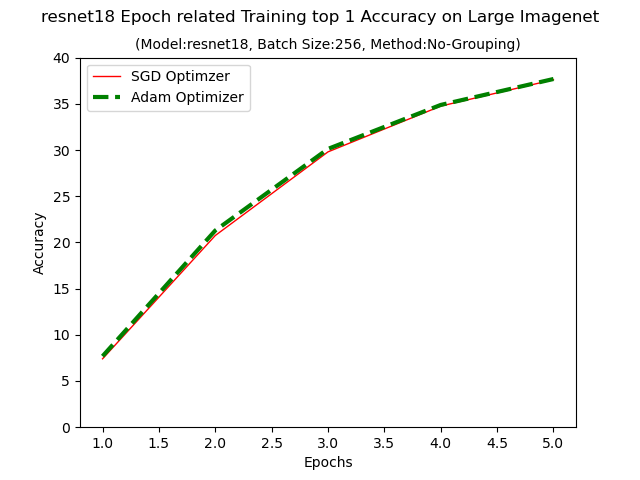
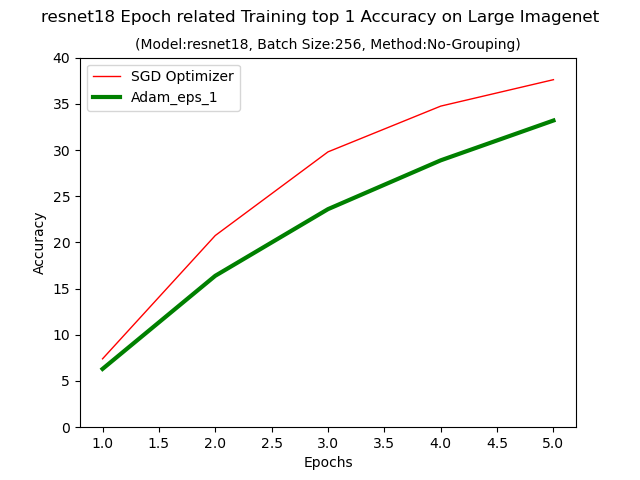
tuning parameter adam optimizer

diff --git a/train-large-imagenet/adam-opt-experiment/read_and_plot_grouped_eps.py b/train-large-imagenet/adam-opt-experiment/read_and_plot_grouped_eps.py
@@ -1,0 +1,137 @@
+import json
+import matplotlib.pyplot as plt
+import numpy as np
+
+train_top1, train_top5, val_top1, val_top5 = [],[],[],[]
+train_top1_size2 = []
+train_top1_size4 = []
+train_top1_size8 = []
+train_top1_size16 = []
+train_top1_size32 = []
+train_top1_size64 = []
+epochs = 0
+batch_size = 0
+model = ""
+batch_top1_top5 = {}
+batch_top1_top5_size2 = {}
+batch_top1_top5_size4 = {}
+batch_top1_top5_size8 = {}
+batch_top1_top5_size16 = {}
+batch_top1_top5_size32 = {}
+batch_top1_top5_size64 = {}
+
+
+short_batch = '256'
+current_p = 'train_top1'
+current_title = 'resnet18 Epoch related Training top 1 Accuracy on Large Imagenet'
+process = '_trainingtop1_'
+
+with open('resnet18_batch_256_epo_5_eps_1') as json_file:
+    data = json.load(json_file)
+    for k,v in data.items():
+        if k == current_p:
+            batch_top1_top5 = data[k]
+            print(type(batch_top1_top5))
+            print(len(batch_top1_top5))
+        elif k == 'model':
+            model = data[k]           
+        elif k == 'args.epochs':
+            epochs = data[k]	
+        elif k == 'args.batch_size':
+            batch_size = data[k]
+with open('resnet18_batch_256_epo_50_sgd') as json_file:
+    data = json.load(json_file)
+    for k,v in data.items():
+        if k == current_p:
+            batch_top1_top5_size2 = data[k][0:5]
+with open('resnet18_batch_256_epo_5_eps_0.1') as json_file:
+    data = json.load(json_file)
+    for k,v in data.items():
+        if k == current_p:
+            batch_top1_top5_size4 = data[k]
+with open('resnet18_batch_256_epo_5_eps_0.01_wd_0.001_betas_(0.9, 0.999)') as json_file:
+    data = json.load(json_file)
+    for k,v in data.items():
+        if k == current_p:
+            batch_top1_top5_size8 = data[k]
+with open('resnet18_batch_256_epo_5_eps_0.001_wd_0.0001_betas_(0.9, 0.999)') as json_file:
+    data = json.load(json_file)
+    for k,v in data.items():
+        if k == current_p:
+            batch_top1_top5_size16 = data[k]
+with open('resnet18_batch_256_epo_5_eps_0.0001_wd_0.0001_betas_(0.9, 0.999)') as json_file:
+    data = json.load(json_file)
+    for k,v in data.items():
+        if k == current_p:
+            batch_top1_top5_size32 = data[k]
+# with open('resnet18_batch_256_epo_5_eps_0.01_wd_0.0001_betas_(0.9, 0.999)') as json_file:
+#     data = json.load(json_file)
+#     for k,v in data.items():
+#         if k == current_p:
+#             batch_top1_top5_size64 = data[k]
+
+
+def helper(batches):
+    batch_range = []
+    batch_top1, batch_top5 = [], []
+    for k,v in batches.items():
+        batch_range.append(int(k))
+        batch_top1.append(v[0])
+        batch_top5.append(v[1])
+    return (batch_range, batch_top1, batch_top5)
+
+
+# x1, top1s1, top5s1 = helper(batch_top1_top5)
+# x2, top1s2, top5s2 = helper(batch_top1_top5_size2)
+# x4, top1s4, top5s4 = helper(batch_top1_top5_size4)
+# x8, top1s8, top5s8 = helper(batch_top1_top5_size8)
+# x16, top1s16, top5s16 = helper(batch_top1_top5_size16)
+# x32, top1s32, top5s32 = helper(batch_top1_top5_size32)
+# x64, top1s64, top5s64 = helper(batch_top1_top5_size64)
+
+
+epoch_range = range(1,epochs+1)
+plt.plot(epoch_range, batch_top1_top5_size2, '--', label = 'SGD Optimizer', color="red", linewidth=2)
+plt.plot(epoch_range, batch_top1_top5, label = 'Adam_eps_1', linewidth=2)
+plt.plot(epoch_range, batch_top1_top5_size4, label = 'Adam_eps_0.1', linewidth=2)
+plt.plot(epoch_range, batch_top1_top5_size8, label = 'Adam_eps_0.01', linewidth=2)
+plt.plot(epoch_range, batch_top1_top5_size16, label = 'Adam_eps_0.001', linewidth=2)
+plt.plot(epoch_range, batch_top1_top5_size32, label = 'Adam_eps_0.0001', linewidth=2)
+# plt.plot(epoch_range, batch_top1_top5_size4, label = 'sequential-grouping', color="red", linewidth=1)
+# plt.plot(epoch_range, batch_top1_top5_size8, label = 'groupsize_8')
+# plt.plot(epoch_range, batch_top1_top5_size16, label = 'groupsize_16')
+# plt.plot(epoch_range, batch_top1_top5_size32, label = 'groupsize_32')
+# plt.plot(epoch_range, batch_top1_top5_size64, label = 'groupsize_64')
+plt.suptitle(current_title)
+plt.title("(Model:resnet18, Batch Size:256, Method:No-Grouping)", fontsize=10)
+plt.xlabel('Epochs')
+plt.ylabel('Accuracy')
+plt.ylim([0,40])
+plt.legend()
+plt.show(block=True) 
+ep = str(epochs)
+bat = str(batch_size)
+results_dir = ''
+sample_file_name = "eps_exp_opt_resnet18"+"_"+current_p + "_batch_" + bat +"_epo_"+ ep +".png" 
+plt.savefig(results_dir + sample_file_name)
+
+"""
+plt.plot(x1, top1s1, label = 'groupsize_1')
+plt.plot(x1, top1s2, label = 'groupsize_2')
+plt.plot(x1, top1s4, label = 'groupsize_4')
+plt.plot(x1, top1s8, label = 'groupsize_8')
+plt.plot(x1, top1s16, label = 'groupsize_16')
+plt.plot(x1, top1s32, label = 'groupsize_32')
+plt.plot(x1, top1s64, label = 'groupsize_64')
+plt.title(current_title)
+plt.xlabel('Batch')
+plt.ylabel('Accuracy')
+plt.ylim([0,100])
+plt.legend()
+plt.show(block=True)
+ep = str(epochs)
+bat = str(batch_size)
+results_dir = 'grouped_model_graph/'
+sample_file_name = "batch_graph_"+ model +process+ "_batch_" + bat +"_epo_"+ ep +".png" 
+plt.savefig(results_dir + sample_file_name)
+"""

diff --git a/train-large-imagenet/adam-opt-experiment/main-original-adam.py b/train-large-imagenet/adam-opt-experiment/main-original-adam.py
@@ -50,9 +50,7 @@ parser.add_argument('--lr', '--learning-rate', default=0.1, type=float,
                     metavar='LR', help='initial learning rate', dest='lr')
 parser.add_argument('--momentum', default=0.9, type=float, metavar='M',
                     help='momentum')
-parser.add_argument('--wd', '--weight-decay', default=1e-4, type=float,
-                    metavar='W', help='weight decay (default: 1e-4)',
-                    dest='weight_decay')
+
 parser.add_argument('-p', '--print-freq', default=10, type=int,
                     metavar='N', help='print frequency (default: 10)')
 parser.add_argument('--resume', default='', type=str, metavar='PATH',
@@ -80,6 +78,15 @@ parser.add_argument('--multiprocessing-distributed', action='store_true',
                          'multi node data parallel training')
 parser.add_argument('--sampler-name', default=' ', type=str,
                     help='add sampler name on last name file result')
+
+parser.add_argument('--eps', default=0.1, type=float,
+                    help='epshilon parameter on adam optimizer')
+parser.add_argument('--weight_decay', default=1e-4, type=float,
+                    metavar='W', help='weight decay (default: 1e-4)',
+                    dest='weight_decay')
+parser.add_argument('--betas', default=(0.9, 0.999), type=tuple,
+                    help='add sampler name on last name file result')
+
 
 best_acc1 = 0
 
@@ -184,8 +191,8 @@ def main_worker(gpu, ngpus_per_node, args):
     # define loss function (criterion), optimizer, and learning rate scheduler
     criterion = nn.CrossEntropyLoss().cuda(args.gpu)
 
-    optimizer = torch.optim.Adam(model.parameters(), args.lr, eps = 0.1,
-                            weight_decay=args.weight_decay)
+    optimizer = torch.optim.Adam(model.parameters(), args.lr, eps = args.eps,
+                            weight_decay=args.weight_decay, betas = args.betas)
 
     # optimizer = torch.optim.SGD(model.parameters(), args.lr,
     #                             momentum=args.momentum,
@@ -303,7 +310,10 @@ def main_worker(gpu, ngpus_per_node, args):
     'batch_acc_train': batch_top1_top5_train, 'batch_acc_val':batch_top1_top5_val}
     bat = str(args.batch_size)
     epo = str(args.epochs)
-    txt = strs + "_batch_" + bat + "_epo_" + epo + "_" + args.sampler_name
+    eps = str(args.eps)
+    weight_decay = str(args.weight_decay)
+    betas = str(args.betas)
+    txt = strs + "_batch_" + bat + "_epo_" + epo + '_eps_' + eps + '_wd_' + weight_decay + '_betas_' + betas
     with open(txt , 'w') as convert_file:
         convert_file.write(json.dumps(model_data))
     
